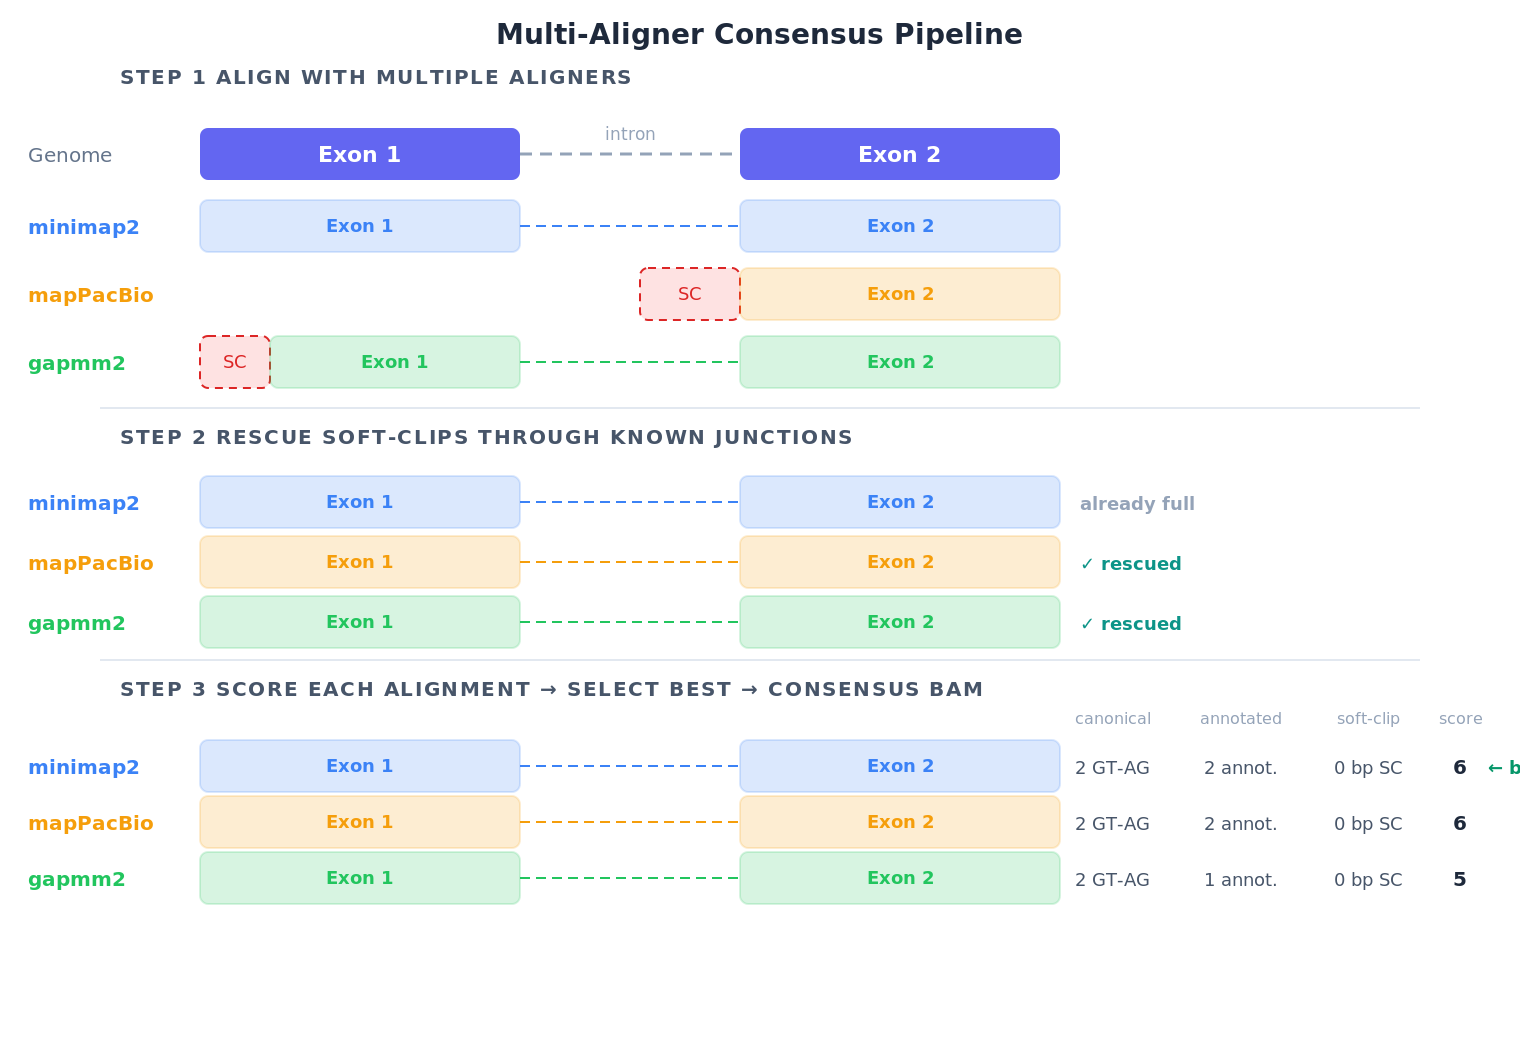
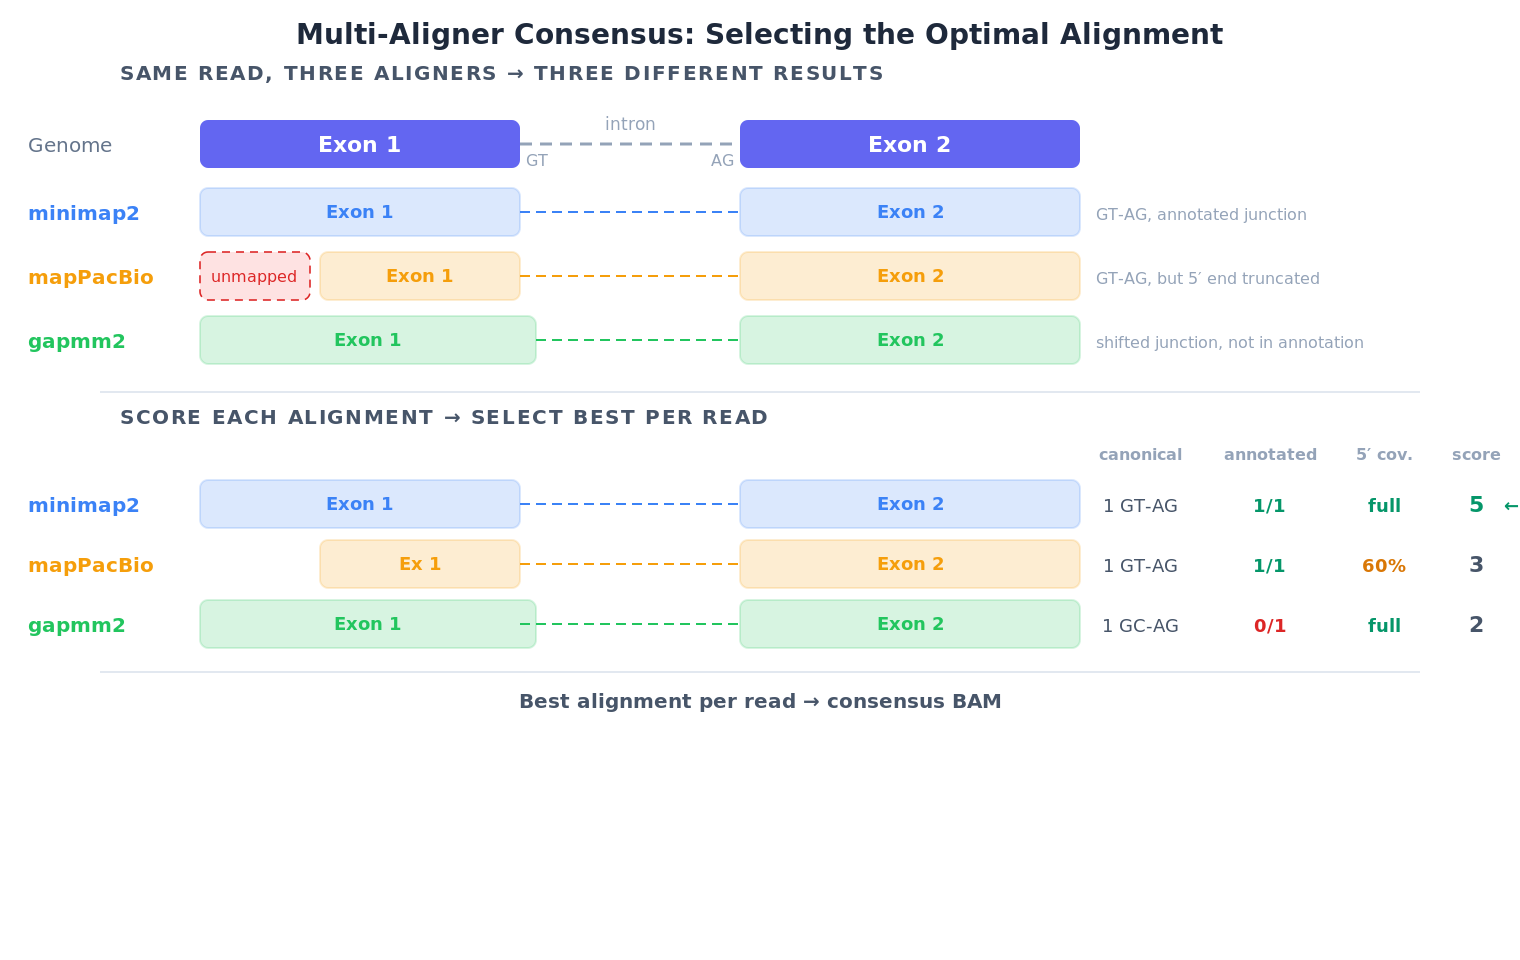
Redesign figures with unified style system; fix aligner name to mapPacBio

diff --git a/generate_figures.py b/generate_figures.py
@@ -479,82 +479,151 @@ def fig_5prime_junction():
 # ═══════════════════════════════════════════════════════════════════════════════
 
 def fig_multi_aligner_consensus():
-    H = 400
-    BLK_H = 26
+    """
+    Key insight: all aligners map the SAME read. The value of multi-aligner
+    isn't just soft-clip rescue (RECTIFY does that for all of them). It's that
+    aligners make fundamentally different structural decisions — junction choice,
+    5' placement — that RECTIFY can't fix. Scoring selects the best overall
+    alignment per read.
+    """
+    H = 480
+    BLK_H = 24
+    ROW_SP = 32
     L = []
     L.append(svg_open(H))
-    L.append(fig_title("Multi-Aligner Consensus Pipeline"))
+    L.append(fig_title("Multi-Aligner Consensus: Selecting the Optimal Alignment"))
 
-    # -- STEP 1 --
-    y_sec = 42
-    L.append(section_head("STEP 1  ALIGN WITH MULTIPLE ALIGNERS", y_sec))
+    # Genome reference — shared across all steps
+    # Exon 1: 100-260, Intron: 260-370, Exon 2: 370-540
+    EX1_X, EX1_W = 100, 160
+    EX2_X, EX2_W = 370, 170
+    INT_X1, INT_X2 = 260, 370
 
-    # Genome reference
-    y_g = y_sec + 22
+    # Aligner colors
+    AC = {"minimap2": "#3b82f6", "mapPacBio": "#f59e0b", "gapmm2": "#22c55e"}
+
+    # ── SAME READ, THREE DIFFERENT ALIGNMENTS ──
+    y_sec = 40
+    L.append(section_head("SAME READ, THREE ALIGNERS \u2192 THREE DIFFERENT RESULTS", y_sec))
+
+    # Genome
+    y_g = y_sec + 20
     L.append(row_label("Genome", y_g + BLK_H // 2 + 4))
-    L.append(exon(100, y_g, 160, BLK_H, "Exon 1"))
-    L.append(intron(260, 370, y_g + BLK_H // 2))
-    L.append(exon(370, y_g, 160, BLK_H, "Exon 2"))
+    L.append(exon(EX1_X, y_g, EX1_W, BLK_H, "Exon 1"))
+    L.append(intron(INT_X1, INT_X2, y_g + BLK_H // 2))
+    L.append(f'<text fill="{PAL["muted"]}" font-size="8" x="{INT_X1+3}" y="{y_g + BLK_H - 1}">GT</text>')
+    L.append(f'<text fill="{PAL["muted"]}" font-size="8" text-anchor="end" x="{INT_X2-3}" y="{y_g + BLK_H - 1}">AG</text>')
+    L.append(exon(EX2_X, y_g, EX2_W, BLK_H, "Exon 2"))
 
-    # Aligner rows
-    aligner_colors = {"minimap2": "#3b82f6", "mapPacBio": "#f59e0b", "gapmm2": "#22c55e"}
-    aligner_configs = [
-        ("minimap2",   "full"),
-        ("mapPacBio",  "sc_5p"),
-        ("gapmm2",     "sc_3p"),
+    # minimap2: Full alignment, canonical junction, both exons covered
+    y = y_g + 34
+    c = AC["minimap2"]
+    L.append(f'<text fill="{c}" font-size="10" font-weight="600" x="14" y="{y + BLK_H//2 + 4}">minimap2</text>')
+    L.append(aligned_block(EX1_X, y, EX1_W, BLK_H, "Exon 1", c))
+    L.append(f'<line stroke="{c}" stroke-dasharray="5,3" stroke-width="1" '
+             f'x1="{INT_X1}" x2="{INT_X2}" y1="{y+BLK_H//2}" y2="{y+BLK_H//2}"/>')
+    L.append(aligned_block(EX2_X, y, EX2_W, BLK_H, "Exon 2", c))
+    L.append(f'<text fill="{PAL["muted"]}" font-size="8" x="{EX2_X + EX2_W + 8}" '
+             f'y="{y + BLK_H//2 + 4}">GT-AG, annotated junction</text>')
+
+    # mapPacBio: Truncated 5' end — aligner places 5' start too far right.
+    # The read bases are there but mapPacBio simply didn't extend into Exon 1 as far.
+    y += ROW_SP
+    c = AC["mapPacBio"]
+    L.append(f'<text fill="{c}" font-size="10" font-weight="600" x="14" y="{y + BLK_H//2 + 4}">mapPacBio</text>')
+    # Shorter Exon 1 coverage — 5' end placed further right
+    mpb_5p = EX1_X + 60  # starts 60px into Exon 1
+    L.append(aligned_block(mpb_5p, y, EX1_X + EX1_W - mpb_5p, BLK_H, "Exon 1", c))
+    L.append(f'<line stroke="{c}" stroke-dasharray="5,3" stroke-width="1" '
+             f'x1="{INT_X1}" x2="{INT_X2}" y1="{y+BLK_H//2}" y2="{y+BLK_H//2}"/>')
+    L.append(aligned_block(EX2_X, y, EX2_W, BLK_H, "Exon 2", c))
+    # Show the missing 5' region
+    L.append(f'<rect fill="{PAL["red_l"]}" height="{BLK_H}" rx="4" '
+             f'stroke="{PAL["red"]}" stroke-dasharray="4,3" stroke-width="0.8" '
+             f'width="55" x="{EX1_X}" y="{y}"/>')
+    L.append(f'<text fill="{PAL["red"]}" font-size="8" text-anchor="middle" '
+             f'x="{EX1_X + 27}" y="{y + BLK_H//2 + 3}">unmapped</text>')
+    L.append(f'<text fill="{PAL["muted"]}" font-size="8" x="{EX2_X + EX2_W + 8}" '
+             f'y="{y + BLK_H//2 + 4}">GT-AG, but 5\u2032 end truncated</text>')
+
+    # gapmm2: Full coverage but junction is shifted — non-canonical splice
+    y += ROW_SP
+    c = AC["gapmm2"]
+    L.append(f'<text fill="{c}" font-size="10" font-weight="600" x="14" y="{y + BLK_H//2 + 4}">gapmm2</text>')
+    # Junction shifted 8px to the right (non-canonical)
+    shift = 8
+    L.append(aligned_block(EX1_X, y, EX1_W + shift, BLK_H, "Exon 1", c))
+    L.append(f'<line stroke="{c}" stroke-dasharray="5,3" stroke-width="1" '
+             f'x1="{INT_X1 + shift}" x2="{INT_X2}" y1="{y+BLK_H//2}" y2="{y+BLK_H//2}"/>')
+    L.append(aligned_block(EX2_X, y, EX2_W, BLK_H, "Exon 2", c))
+    # Mark the shifted junction
+    L.append(f'<text fill="{PAL["muted"]}" font-size="8" x="{EX2_X + EX2_W + 8}" '
+             f'y="{y + BLK_H//2 + 4}">shifted junction, not in annotation</text>')
+
+    # ── DIVIDER ──
+    y_div = y + BLK_H + 14
+    L.append(hdivider(y_div))
+
+    # ── SCORE AND SELECT ──
+    y_sec2 = y_div + 16
+    L.append(section_head("SCORE EACH ALIGNMENT \u2192 SELECT BEST PER READ", y_sec2))
+
+    # Column headers
+    y_hdr = y_sec2 + 18
+    score_cols = [("canonical", 570), ("annotated", 635), ("5\u2032 cov.", 692), ("score", 738)]
+    for label, cx in score_cols:
+        L.append(f'<text fill="{PAL["muted"]}" font-size="8" font-weight="600" '
+                 f'text-anchor="middle" x="{cx}" y="{y_hdr}">{label}</text>')
+
+    # Score rows
+    scores = [
+        ("minimap2",   AC["minimap2"],   "1 GT-AG", "1/1", "full",   "5", True),
+        ("mapPacBio",  AC["mapPacBio"],  "1 GT-AG", "1/1", "60%",    "3", False),
+        ("gapmm2",     AC["gapmm2"],     "1 GC-AG", "0/1", "full",   "2", False),
     ]
 
-    for i, (name, mode) in enumerate(aligner_configs):
-        y = y_g + 38 + i * 36
-        c = aligner_colors[name]
-        L.append(f'<text fill="{c}" font-size="10" font-weight="600" x="14" y="{y + BLK_H // 2 + 4}">{name}</text>')
+    for i, (name, color, can, ann, cov, score, is_best) in enumerate(scores):
+        y = y_hdr + 10 + i * 30
+        L.append(f'<text fill="{color}" font-size="10" font-weight="600" x="14" '
+                 f'y="{y + BLK_H//2 + 4}">{name}</text>')
 
-        if mode == "full":
-            L.append(aligned_block(100, y, 160, BLK_H, "Exon 1", c))
-            L.append(f'<line stroke="{c}" stroke-dasharray="5,3" stroke-width="1" '
-                     f'x1="260" x2="370" y1="{y + BLK_H // 2}" y2="{y + BLK_H // 2}"/>')
-            L.append(aligned_block(370, y, 160, BLK_H, "Exon 2", c))
-        elif mode == "sc_5p":
-            L.append(softclip_block(320, y, 50, BLK_H, "SC"))
-            L.append(aligned_block(370, y, 160, BLK_H, "Exon 2", c))
-        elif mode == "sc_3p":
-            L.append(softclip_block(100, y, 35, BLK_H, "SC"))
-            L.append(aligned_block(135, y, 125, BLK_H, "Exon 1", c))
-            L.append(f'<line stroke="{c}" stroke-dasharray="5,3" stroke-width="1" '
-                     f'x1="260" x2="370" y1="{y + BLK_H // 2}" y2="{y + BLK_H // 2}"/>')
-            L.append(aligned_block(370, y, 160, BLK_H, "Exon 2", c))
-
-    # -- STEP 2 --
-    y_s2 = y_g + 38 + 3 * 36 + 10
-    L.append(hdivider(y_s2 - 4))
-    L.append(section_head("STEP 2  RESCUE SOFT-CLIPS THROUGH KNOWN JUNCTIONS", y_s2 + 14))
-
-    y_g2 = y_s2 + 34
-    L.append(row_label("Genome", y_g2 + BLK_H // 2 + 4))
-    L.append(exon(100, y_g2, 160, BLK_H, "Exon 1"))
-    L.append(intron(260, 370, y_g2 + BLK_H // 2))
-    L.append(exon(370, y_g2, 160, BLK_H, "Exon 2"))
-
-    rescued_data = [
-        ("minimap2",   "#3b82f6", False),
-        ("mapPacBio",  "#f59e0b", True),
-        ("gapmm2",     "#22c55e", True),
-    ]
-    for i, (name, color, was_rescued) in enumerate(rescued_data):
-        y = y_g2 + 34 + i * 32
-        L.append(f'<text fill="{color}" font-size="10" font-weight="600" x="14" y="{y + BLK_H // 2 + 4}">{name}</text>')
-        L.append(aligned_block(100, y, 160, BLK_H, "Exon 1", color))
+        # Compact alignment bar
+        if name == "mapPacBio":
+            L.append(aligned_block(160, y, 100, BLK_H, "Ex 1", color))
+        elif name == "gapmm2":
+            L.append(aligned_block(100, y, 168, BLK_H, "Exon 1", color))
+        else:
+            L.append(aligned_block(100, y, 160, BLK_H, "Exon 1", color))
         L.append(f'<line stroke="{color}" stroke-dasharray="5,3" stroke-width="1" '
-                 f'x1="260" x2="370" y1="{y + BLK_H // 2}" y2="{y + BLK_H // 2}"/>')
-        L.append(aligned_block(370, y, 160, BLK_H, "Exon 2", color))
-        if was_rescued:
-            L.append(f'<text fill="{PAL["teal"]}" font-size="10" font-weight="600" '
-                     f'x="540" y="{y + BLK_H // 2 + 4}">\u2713 rescued</text>')
+                 f'x1="{INT_X1}" x2="{INT_X2}" y1="{y+BLK_H//2}" y2="{y+BLK_H//2}"/>')
+        L.append(aligned_block(EX2_X, y, EX2_W, BLK_H, "Exon 2", color))
 
-    # -- STEP 3 --
-    y_s3 = y_g2 + 34 + 3 * 32 + 10
-    L.append(hdivider(y_s3 - 4))
-    L.append(section_head("STEP 3  SCORE \u2192 SELECT BEST PER READ \u2192 CONSENSUS BAM", y_s3 + 14))
+        # Score values
+        L.append(f'<text fill="{PAL["heading"]}" font-size="9" text-anchor="middle" '
+                 f'x="570" y="{y + BLK_H//2 + 4}">{can}</text>')
+        ann_color = PAL["green"] if ann == "1/1" else PAL["red"]
+        L.append(f'<text fill="{ann_color}" font-size="9" font-weight="600" text-anchor="middle" '
+                 f'x="635" y="{y + BLK_H//2 + 4}">{ann}</text>')
+        cov_color = PAL["green"] if cov == "full" else PAL["orange"]
+        L.append(f'<text fill="{cov_color}" font-size="9" font-weight="600" text-anchor="middle" '
+                 f'x="692" y="{y + BLK_H//2 + 4}">{cov}</text>')
+
+        # Total score
+        sc_weight = "700" if is_best else "600"
+        sc_color = PAL["green"] if is_best else PAL["heading"]
+        L.append(f'<text fill="{sc_color}" font-size="11" font-weight="{sc_weight}" '
+                 f'text-anchor="middle" x="738" y="{y + BLK_H//2 + 4}">{score}</text>')
+
+        if is_best:
+            L.append(f'<text fill="{PAL["green"]}" font-size="9" font-weight="700" '
+                     f'x="752" y="{y + BLK_H//2 + 4}">\u2190 best</text>')
+
+    # Final output label
+    y_out = y_hdr + 10 + 3 * 30 + 6
+    L.append(hdivider(y_out))
+    L.append(f'<text fill="{PAL["heading"]}" font-size="10" font-weight="600" '
+             f'text-anchor="middle" x="{FIG_W//2}" y="{y_out + 18}">'
+             f'Best alignment per read \u2192 consensus BAM</text>')
 
     L.append(svg_close())
     return "\n".join(L)

diff --git a/docs/figures/README.md b/docs/figures/README.md
@@ -94,7 +94,7 @@ Different aligners make different tradeoffs at splice junctions. RECTIFY runs th
   <img src="docs/figures/multi_aligner_consensus.png" alt="Multi-Aligner Consensus" width="660">
 </p>
 
-**Scoring criteria:** Rescued alignments are scored by the number of canonical GT-AG splice junctions, matches to annotated junctions in the provided GFF/GTF, and remaining soft-clip length. The alignment with the highest composite score is selected per read and written to the consensus BAM.
+**Scoring criteria:** Rescued alignments are scored by the number of canonical GT-AG splice junctions, matches to annotated junctions in the provided GFF/GTF, and remaining soft-clip length. The alignment with the highest composite score is selected per read and written to the rectified BAM.
 
 ```bash
 # Multi-aligner consensus alignment (default)
